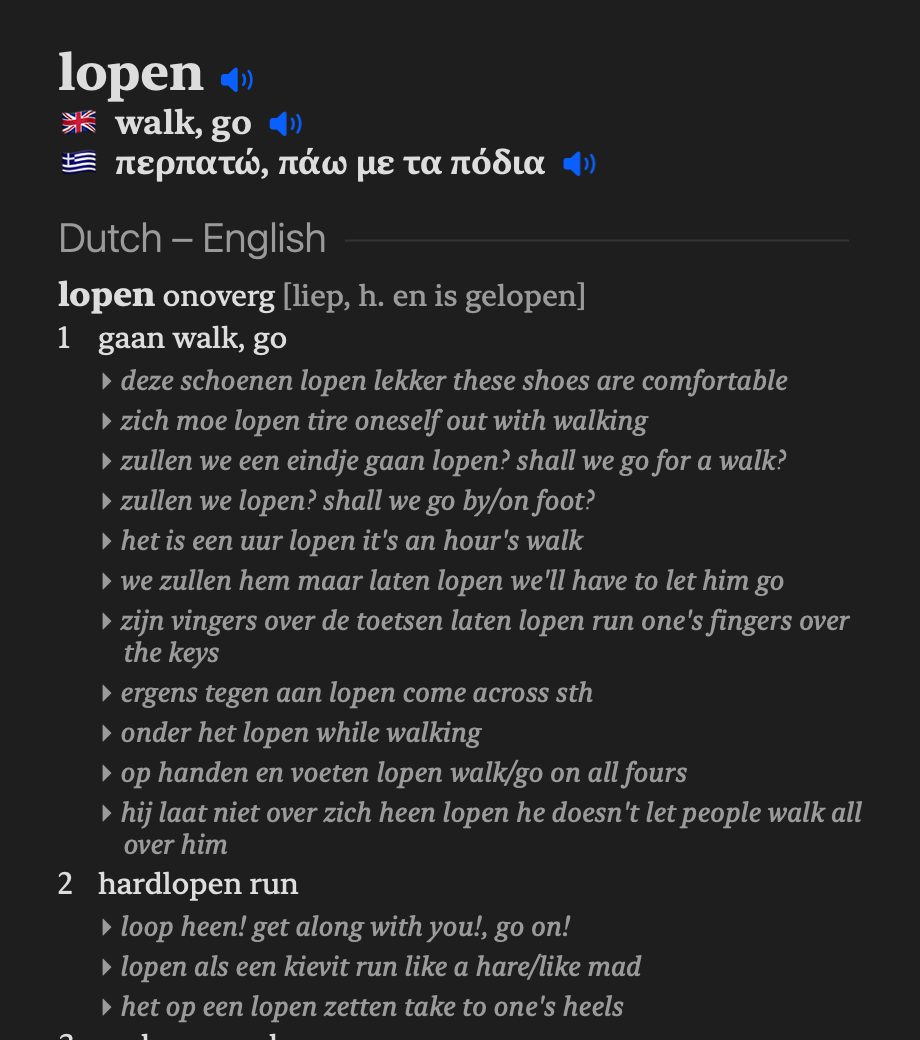
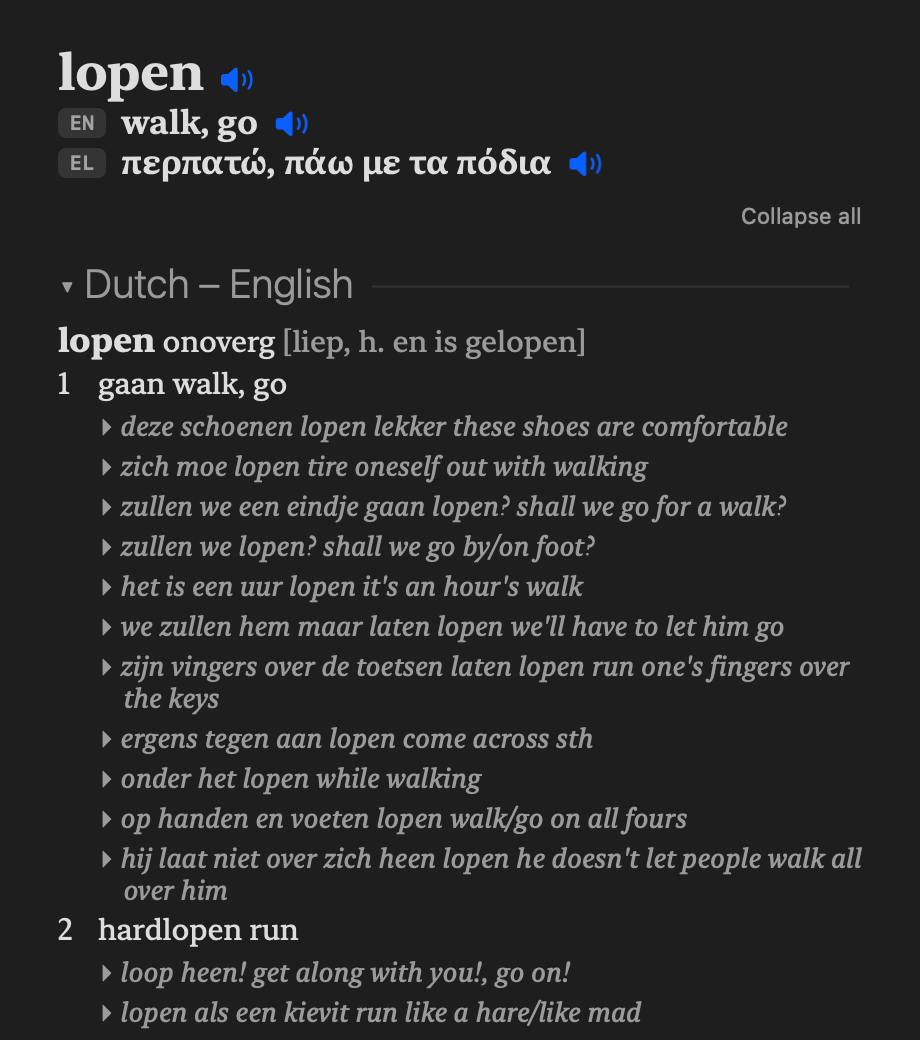
Language codes in badges instead of flags; README images re-rendered
A flag names a country, not a language (Spanish is Mexico's too), and some languages
have none. The card and Settings show each language's code (NL, EL) in a small
rounded badge, one width for all, still clickable on the card. Packs lose their flag
field; one that still has it loads fine.

diff --git a/Sources/LookupWord/Card.swift b/Sources/LookupWord/Card.swift
@@ -13,6 +13,28 @@ func run(_ s: String, _ font: NSFont, _ color: NSColor = .labelColor) -> NSAttri
     NSAttributedString(string: s, attributes: [.font: font, .foregroundColor: color])
 }
 
+// a language's code in a small rounded badge (NL, EL), one width for all so the rows line up: a code, not a flag, as
+// a flag names a country, not a language (Spanish is Mexico's too), and some languages have none (his call, 2026-11-02)
+func badge(_ code: String) -> NSAttributedString {
+    let label = code.uppercased() as NSString
+    let font = NSFont.monospacedSystemFont(ofSize: 10, weight: .semibold)
+    let size = NSSize(width: 24, height: 15)
+    // (drawn when shown, so its colours follow light and dark mode)
+    let image = NSImage(size: size, flipped: false) { r in
+        NSColor.quaternaryLabelColor.setFill()
+        NSBezierPath(roundedRect: r, xRadius: 4, yRadius: 4).fill()
+        let a: [NSAttributedString.Key: Any] = [.font: font, .foregroundColor: NSColor.secondaryLabelColor]
+        let s = label.size(withAttributes: a)
+        label.draw(at: NSPoint(x: (r.width - s.width) / 2, y: (r.height - s.height) / 2), withAttributes: a)
+        return true
+    }
+    image.accessibilityDescription = pack(code)?.name ?? code
+    let a = NSTextAttachment()
+    a.image = image
+    a.bounds = NSRect(x: 0, y: -2, width: size.width, height: size.height)
+    return NSAttributedString(attachment: a)
+}
+
 // a speaker button that says the text in that language: the system's speaker symbol, in the accent colour
 func speaker(_ text: String, _ lang: String, size: CGFloat = 14) -> NSAttributedString {
     var u = URLComponents(); u.scheme = "say"; u.host = lang; u.queryItems = [URLQueryItem(name: "t", value: text)]
@@ -98,7 +120,7 @@ let cardWidth: CGFloat = 460
 // whether they start closed, as the card's Collapse all left them for the next cards.
 var shownCard: (entry: Entry, status: String)?
 var toggled = Set<Int>()
-var sectionStart: [Int: Int] = [:]  // each section's title, by its character position, for a flag's click
+var sectionStart: [Int: Int] = [:]  // each section's title, by its character position, for a badge's click
 let collapsedKey = "sectionsCollapsed"
 var collapsedByDefault: Bool { UserDefaults.standard.bool(forKey: collapsedKey) }
 
@@ -111,13 +133,15 @@ func card(_ e: Entry, status: String) -> NSAttributedString {
     if !e.ipa.isEmpty { out.append(run("  | \(e.ipa) |", serif(16, .regular), .secondaryLabelColor)) }
     out.append(speaker(e.word, e.lang))
     for (code, words) in e.tr where !words.isEmpty {
-        let flag = NSMutableAttributedString(attributedString: run("\n" + (pack(code)?.flag ?? code.uppercased()) + "  ", .systemFont(ofSize: 15)))
-        // the flag leads to its language's dictionary below ("Greek – English"), when the card has one
+        out.append(run("\n", .systemFont(ofSize: 15)))
+        let tag = NSMutableAttributedString(attributedString: badge(code))
+        // the badge leads to its language's dictionary below ("Greek – English"), when the card has one
         if let name = pack(code)?.name, let i = e.sections.firstIndex(where: { $0.0.contains(name) }) {
-            flag.addAttributes([.link: URL(string: "lookupword://section/\(i)")!, .cursor: NSCursor.pointingHand],
-                               range: NSRange(location: 1, length: flag.length - 3))
+            tag.addAttributes([.link: URL(string: "lookupword://section/\(i)")!, .cursor: NSCursor.pointingHand],
+                              range: NSRange(location: 0, length: tag.length))
         }
-        out.append(flag)
+        out.append(tag)
+        out.append(run("  ", .systemFont(ofSize: 15)))
         out.append(run(words, serif(17, .semibold)))
         out.append(speaker(words, code))
     }

diff --git a/Sources/LookupWord/Settings.swift b/Sources/LookupWord/Settings.swift
@@ -5,7 +5,7 @@ import ScreenCaptureKit
 import SwiftUI
 
 final class SettingsModel: ObservableObject {
-    struct Language: Identifiable { var id: String { code }; var code: String; var name: String; var flag: String; var missing: [String]; var ids: [String] }
+    struct Language: Identifiable { var id: String { code }; var code: String; var name: String; var missing: [String]; var ids: [String] }
 
     @Published var languages: Set<String>
     @Published var hotkey: String
@@ -33,7 +33,7 @@ final class SettingsModel: ObservableObject {
         storePath = file.store.path ?? ""
         saveDate = file.store.saveDate
         available = availablePacks.compactMap(loadPack).map { p in
-            Language(code: p.code, name: p.name, flag: p.flag ?? "", missing: [p.monolingual, p.bilingual].compactMap { $0 }.filter { dictionaries[$0] == nil },
+            Language(code: p.code, name: p.name, missing: [p.monolingual, p.bilingual].compactMap { $0 }.filter { dictionaries[$0] == nil },
                      ids: p.dictionaryIds ?? [])
         }.sorted { ($0.code == "en" ? "" : $0.name) < ($1.code == "en" ? "" : $1.name) }
         saved = snapshot
@@ -153,7 +153,12 @@ struct SettingsView: View {
                             Toggle(isOn: Binding(get: { model.languages.contains(lang.code) },
                                                  set: { on in if on { model.languages.insert(lang.code) } else { model.languages.remove(lang.code) } })) {
                                 VStack(alignment: .leading, spacing: 2) {
-                                    Text("\(lang.flag)  \(lang.name)")
+                                    HStack(spacing: 8) {  // its code, as the card shows it
+                                        Text(lang.code.uppercased()).font(.system(size: 10, weight: .semibold, design: .monospaced))
+                                            .foregroundStyle(.secondary).frame(width: 24, height: 15)
+                                            .background(RoundedRectangle(cornerRadius: 4).fill(Color(nsColor: .quaternaryLabelColor)))
+                                        Text(lang.name)
+                                    }
                                     if lang.code == "en" {
                                         Text("Always on: other languages translate through English").font(.caption).foregroundStyle(.secondary)
                                     }

diff --git a/Sources/LookupWord/Packs.swift b/Sources/LookupWord/Packs.swift
@@ -26,7 +26,6 @@ struct PackLink: Decodable {
 struct Pack: Decodable {
     var code: String  // ISO 639-1
     var name: String  // in English: "Dutch"
-    var flag: String?
     var voice: String  // AVSpeechSynthesisVoice language: "nl-NL"
     var monolingual: String?  // Dictionary.app short names: "Dutch"…
     var bilingual: String?  // …"Dutch - English"; none for English itself
@@ -48,7 +47,7 @@ struct Pack: Decodable {
     var dir = URL(fileURLWithPath: "/")
 
     enum CodingKeys: String, CodingKey {
-        case code, name, flag, voice, monolingual, bilingual, dictionaryIds, script, recognizer, ocr, spellChecker, verb, verbLabels,
+        case code, name, voice, monolingual, bilingual, dictionaryIds, script, recognizer, ocr, spellChecker, verb, verbLabels,
              intransitiveLabels, partLabels,
              stripHints, lemmas, translations, links, gloss
     }

diff --git a/CONTRIBUTING.md b/CONTRIBUTING.md
@@ -24,7 +24,6 @@ dictionary is optional but improves the card.
 {
   "code": "fr",
   "name": "French",
-  "flag": "🇫🇷",
   "voice": "fr-FR",
   "monolingual": "French",
   "bilingual": "French - English",
@@ -40,7 +39,7 @@ dictionary is optional but improves the card.
 
 | Key | What it is |
 |---|---|
-| `code`, `name`, `flag` | The ISO 639-1 code, the English name, and the flag shown before the translation. |
+| `code`, `name` | The ISO 639-1 code, shown in a badge before the translation (FR), and the English name. |
 | `voice` | The `AVSpeechSynthesisVoice` language for the 🔈. |
 | `monolingual`, `bilingual` | Dictionary short names, exactly as `--dictionaries` prints them. |
 | `dictionaryIds` | Their identifiers, for the Settings window's **Enable** button: `DictionaryIdentifier` in `/System/Library/AssetsV2/com_apple_MobileAsset_DictionaryServices_dictionary3macOS/*.xml` (`com.apple.dictionary.OxfordFrench`). |

diff --git a/README.md b/README.md
@@ -170,7 +170,7 @@ and the card appears; the third is a box to type into. To close it, click anywhe
 ### On the card
 
 - **Click the speaker** next to a word to hear it, in its own language's voice.
-- **Click a flag** to jump to that language's dictionary entry further down the card.
+- **Click a language's code** (NL, EL…) to jump to that language's dictionary entry further down the card.
 - **Click a dictionary's name** (▾) to fold its entry away, or **Collapse all** at the card's foot to fold them all;
   the cards after keep it that way until you choose **Expand all**.
 - **Read more** at the foot links to that language's dictionaries online: Cambridge, Merriam-Webster, Woorden.org,
